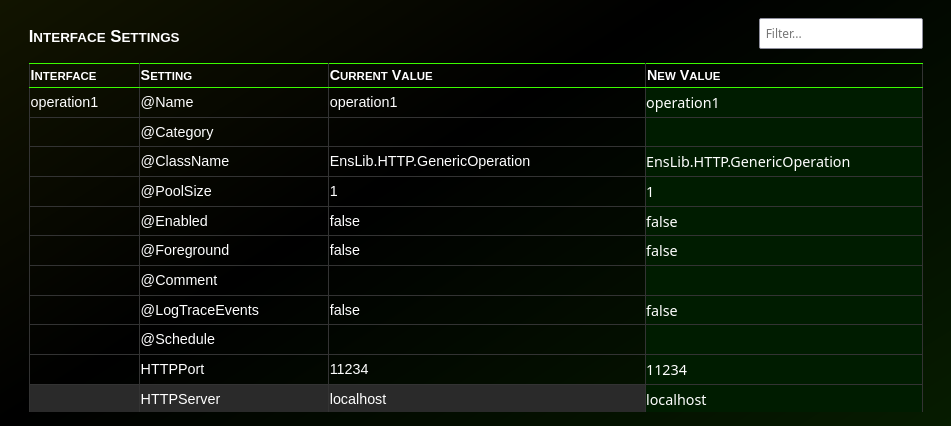
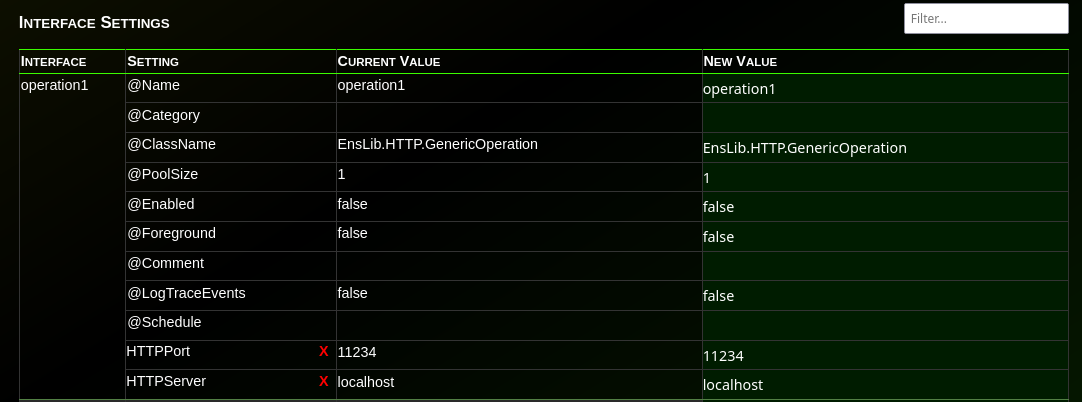
Updated docs

diff --git a/webapps/hc_export_editor/templates/help.html b/webapps/hc_export_editor/templates/help.html
@@ -160,6 +160,7 @@ zpm:USER&gt;install hc-export-editor
 <p>This page contains various sections, each with its own table and filter box.</p>
 <p>The filter box allows you to narrow down the display to only the rows you are interested in viewing or editing.</p>
 <p>Most tables have a <code>New Value</code> column that is editable.  Changing the values in this column will change the corresponding value in the generated, modified export.  Use the <code>tab</code> key to jump from editable cell to editable cell.</p>
+<p>Each Interface Setting can be removed from the export by clicking on the red <code>X</code> next to the setting names.</p>
 <h4>Header Section</h4>
 <p>This section contains the file name of the export being modified and the directory that contains the export.</p>
 <p><img src="{{url_for('static', filename='./docs/images/header.png')}}" alt="Image: Modify Export - Header" /></p>
@@ -175,10 +176,12 @@ zpm:USER&gt;install hc-export-editor
 <p><img src="{{url_for('static', filename='./docs/images/interface_settings.png')}}" alt="Image: Modify Export - Interface Settings" /></p>
 <p>You can use the filter box to the top-right to narrow down the list of displayed settings.  For example, if you type &quot;port&quot;, the &quot;Interface Settings&quot; table will only show settings with &quot;port&quot; in the name.</p>
 <p><img src="{{url_for('static', filename='./docs/images/ports.png')}}" alt="Image: Modify Export - Port Filtering" /></p>
+<p>You can also remove settings from the export by clicking the red <code>X</code> next to each setting name.</p>
 <h4>&quot;Lookup Tables&quot; Section</h4>
 <p>This section of the editor allows you to edit the values of any lookup tables included in the export.</p>
 <p>You can use the filter box to the top-right to narrow down the list of displayed rows.</p>
 <p><img src="{{url_for('static', filename='./docs/images/lookup_tables.png')}}" alt="Image: Modify Export - Lookup Tables" /></p>
+<p>You can also individual rows from the export by clicking the red <code>X</code> next to each row's key.</p>
 <h4>Saving the Changes</h4>
 <p>After you've made changes to the settings in the tables above, you can either type <code>Enter</code> (while in an text box or editable field) or you can click the <code>Generate Modified Export</code> button at the top-right of the page.</p>
 <p><img src="{{url_for('static', filename='./docs/images/generate_button.png')}}" alt="Image: Modify Export - Generate Button" /></p>

diff --git a/README.md b/README.md
@@ -167,6 +167,8 @@ The filter box allows you to narrow down the display to only the rows you are in
 
 Most tables have a `New Value` column that is editable.  Changing the values in this column will change the corresponding value in the generated, modified export.  Use the `tab` key to jump from editable cell to editable cell.
 
+Each Interface Setting can be removed from the export by clicking on the red `X` next to the setting names.
+
 #### Header Section
 This section contains the file name of the export being modified and the directory that contains the export.
 
@@ -193,12 +195,16 @@ You can use the filter box to the top-right to narrow down the list of displayed
 
 ![Image: Modify Export - Port Filtering](./docs/images/ports.png)
 
+You can also remove settings from the export by clicking the red `X` next to each setting name.
+
 #### "Lookup Tables" Section
 This section of the editor allows you to edit the values of any lookup tables included in the export.
 
 You can use the filter box to the top-right to narrow down the list of displayed rows.
 
 ![Image: Modify Export - Lookup Tables](./docs/images/lookup_tables.png)
+
+You can also individual rows from the export by clicking the red `X` next to each row's key.
 
 #### Saving the Changes
 After you've made changes to the settings in the tables above, you can either type `Enter` (while in an text box or editable field) or you can click the `Generate Modified Export` button at the top-right of the page.
